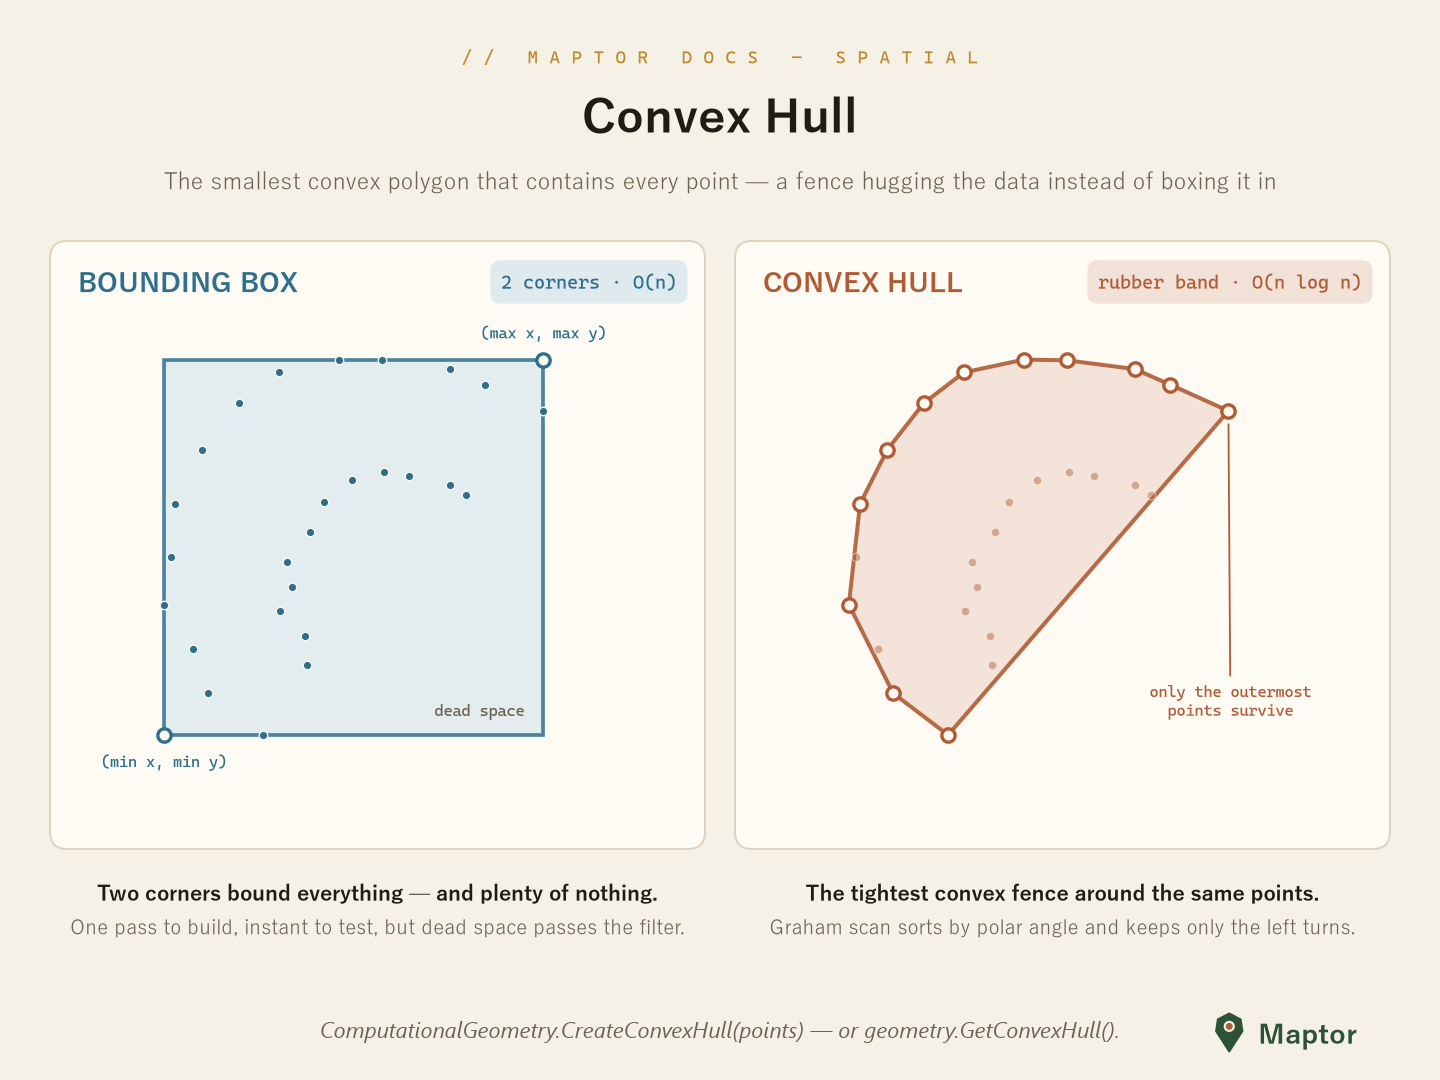
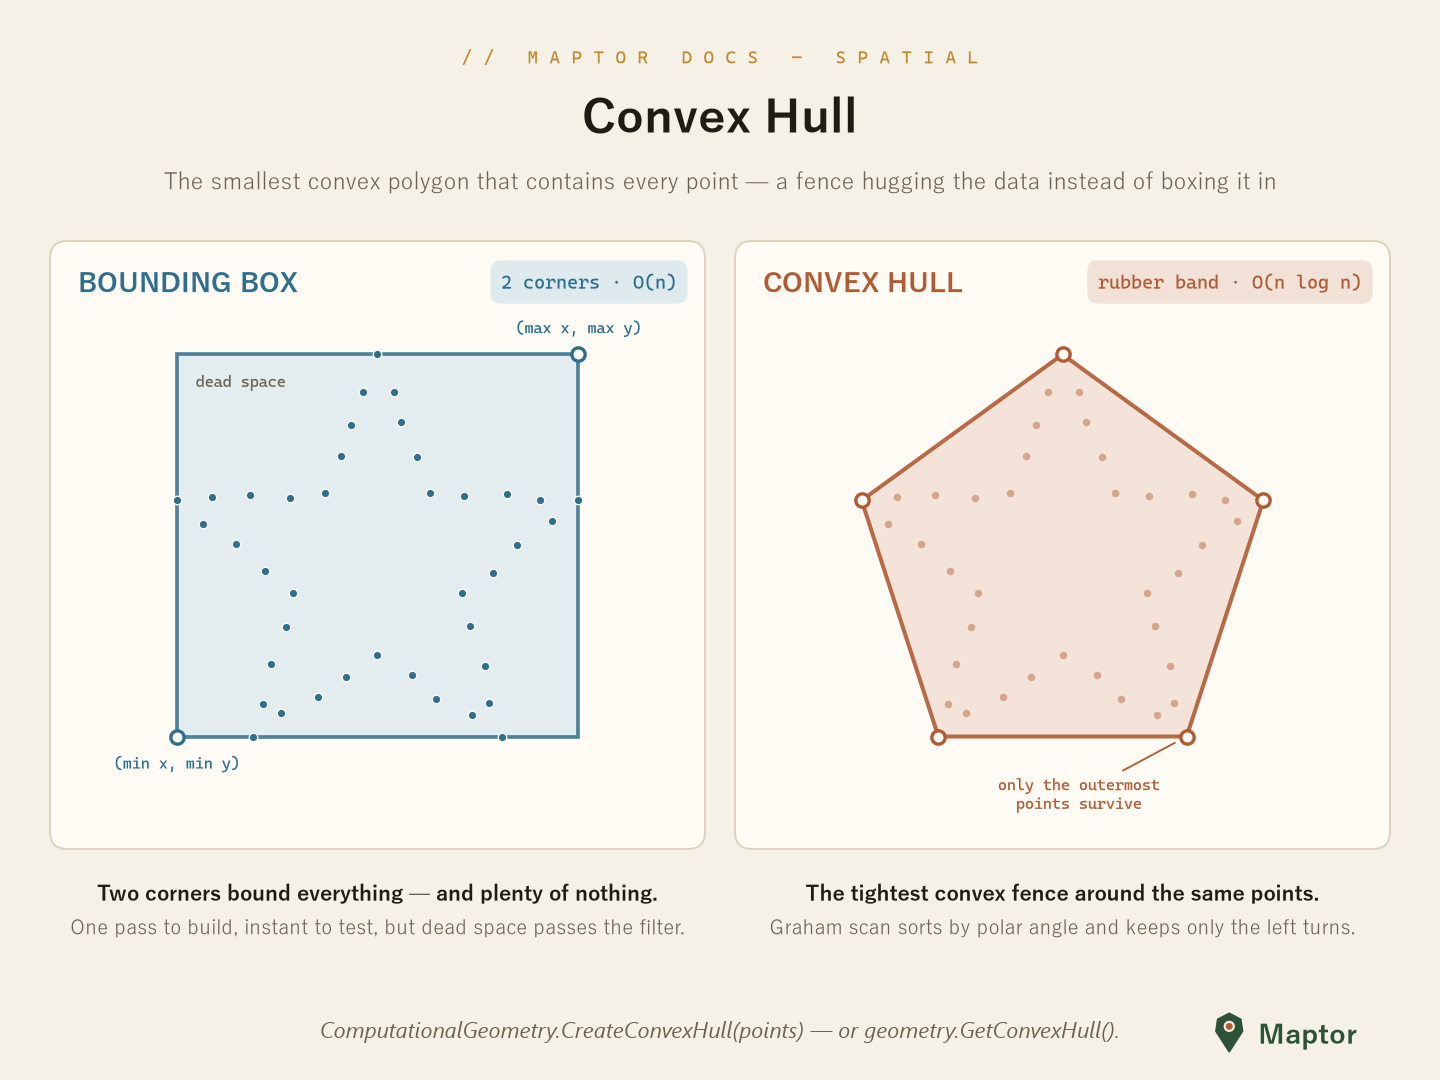
docs: convex hull docs

Changed region(s): [[0.5625, 0.3056, 0.9062, 0.7639], [0.0625, 0.3056, 0.4375, 0.7333]]

diff --git a/docs/readme-style-guide.md b/docs/readme-style-guide.md
@@ -1,0 +1,284 @@
+# README style guide
+
+This guide defines the single standard for every README in this repository. When creating or
+editing a README, find its type in the [file-to-type assignment](#appendix-file-to-type-assignment),
+follow that type's template, and respect the global rules below.
+
+## Scope
+
+Applies to all README files in the repository, with one exclusion:
+
+- `**/ThirdPartyLibraries/**` — vendored third-party documentation; never modify.
+
+## Global rules
+
+1. **Filename** is exactly `README.md` (case-sensitive). Supplementary docs (e.g.
+   `USAGE_EXAMPLES.md`) keep their own names and are not covered by this guide.
+2. **One H1 on line 1**, naming the thing verbatim: the package id (`# IRI.Maptor.Sta.Spatial`),
+   the topic (`# Shortest paths`), or the format (`# SVG`). Badges, if any, come immediately after
+   the H1.
+3. **Sentence case for all H2+ headings**: `## Getting started`, not `## Getting Started`.
+   The H1 keeps the proper name's own casing.
+4. **Emoji** are allowed only in the root `README.md` (title and marketing sections). All other
+   READMEs use plain text headings and bullets. Back-links use plain text, not `⬅`.
+5. **Links**: use relative links within the repo, **except** in READMEs that are packed into a
+   NuGet package (`<PackageReadmeFile>` in the csproj) — those must use absolute URLs
+   (`https://github.com/hosseinnarimanirad/Maptor/blob/master/...`) because relative links break
+   on nuget.org. NuGet-packed READMEs must also avoid HTML that nuget.org strips
+   (`<div align>`, `<img>` wrappers) — plain Markdown only.
+6. **No unverifiable claims.** Every feature bullet and capability statement must match the code.
+   File counts, performance numbers, and superlatives without a source are removed on sight.
+   Known precedent: CesiumTerrain is *reader-only* — writing is not implemented.
+7. **Language** is English. Bilingual English/Persian is allowed in application-specific
+   documentation sets.
+8. **Length** targets per type are in the taxonomy table. Shorter is fine; padding is not.
+9. **Code samples** must compile against the current API. Known gotcha:
+   `Geometry<T>.CreatePointOrLineString(List<T> points, int srid)` is the only valid overload; the
+   KML/KMZ namespace is `IRI.Maptor.Sta.KmlFormat` (not `...Sta.Ogc.KML`).
+10. **No ASCII folder trees** ("Project structure" sections). Folder layout is visible in the repo
+    itself; trees rot silently. The exception is docs whose *subject* is a layout (e.g. a package
+    format's directory structure).
+11. **Public paths only.** READMEs must reference only paths that exist in the public repository
+    (github.com/hosseinnarimanirad/Maptor).
+
+## Badge policy
+
+| README type | Allowed badges | Link target |
+|---|---|---|
+| A. Root landing | max 5: NuGet (flagship pkg), license, .NET, build/CI | each badge links to what it shows — license badge → LICENSE.txt, .NET Standard badge → the .NET Standard docs (never a different version's download page) |
+| C. Package | exactly 2: NuGet version + target framework | NuGet badge → `https://www.nuget.org/packages/<id>/`; `netstandard2.1` → `https://learn.microsoft.com/dotnet/standard/net-standard`; `net8.0` → `https://dotnet.microsoft.com/download/dotnet/8.0` |
+| B, D, E, F | none | — |
+
+Badge images use shields.io. A badge whose subject or link is wrong is worse than no badge.
+
+## Type taxonomy
+
+| Type | Applies to | Required sections, in order | Length |
+|---|---|---|---|
+| **A. Root landing** | `/README.md` | H1 + tagline → badges → What is Maptor → Repository layout → Installation → Quick start → Documentation → License | ≤ 250 |
+| **B. Tier index** | `src/IRI.Maptor.{Sta,Ket,Jab}/README.md` | H1 → one-line scope → project table → back-link footer | ≤ 60 |
+| **C. Package** | each NuGet-published project root | H1 (package id) → badges → overview paragraph → Installation → Features → Usage → footer | 60–150 |
+| **D. Deep-dive** | sub-folder topic/algorithm and format docs | topic: H1 → prose (free-form) → optional References → back-link. format: H1 → overview → Supported capabilities → Usage → Limitations → back-link | ≤ 400 |
+| **E. App/ops guide** | application deployment/configuration guides | H1 → purpose paragraph → Prerequisites → numbered steps/config → footer | free |
+| **F. Internal/tooling** | `research/`, `samples/` | H1 → purpose paragraph → How to run (if runnable) → back-link | ≤ 40 |
+
+## Templates
+
+### Type A — root landing
+
+The root README is rebuilt rarely; keep its existing section order (above) and apply the global
+rules. Emoji allowed. All URLs absolute or repo-relative and verified.
+
+### Type B — tier index
+
+```markdown
+# IRI.Maptor.<Tier>
+
+<One sentence: what this tier is and what runtime it targets.>
+
+| Project | NuGet | Target | Description |
+|---|---|---|---|
+| [IRI.Maptor.<Tier>.<Name>](IRI.Maptor.<Tier>.<Name>/README.md) | [![NuGet](https://img.shields.io/nuget/v/IRI.Maptor.<Tier>.<Name>?logo=nuget)](https://www.nuget.org/packages/IRI.Maptor.<Tier>.<Name>/) | netstandard2.1 | <one line> |
+
+---
+[Back to the solution README](../../README.md)
+```
+
+### Type C — package (NuGet-packed: absolute URLs only)
+
+````markdown
+# IRI.Maptor.<Tier>.<Name>
+
+[![NuGet](https://img.shields.io/nuget/v/IRI.Maptor.<Tier>.<Name>?logo=nuget)](https://www.nuget.org/packages/IRI.Maptor.<Tier>.<Name>/)
+[![Target](https://img.shields.io/badge/netstandard2.1-512BD4)](https://learn.microsoft.com/dotnet/standard/net-standard)
+
+<One paragraph: what the package does and where it sits in the Maptor stack.>
+
+## Installation
+
+```bash
+dotnet add package IRI.Maptor.<Tier>.<Name>
+```
+
+## Features
+
+- <capability, verified against code>
+
+## Usage
+
+```csharp
+<short sample that compiles against the current API>
+```
+
+## See also
+
+- [<Sub-topic>](https://github.com/hosseinnarimanirad/Maptor/blob/master/src/IRI.Maptor.<Tier>/IRI.Maptor.<Tier>.<Name>/<Folder>/README.md)
+
+---
+[NuGet package](https://www.nuget.org/packages/IRI.Maptor.<Tier>.<Name>/) ·
+[Report issues](https://github.com/hosseinnarimanirad/Maptor/issues) ·
+[Back to IRI.Maptor.<Tier>](https://github.com/hosseinnarimanirad/Maptor/blob/master/src/IRI.Maptor.<Tier>/README.md)
+````
+
+Optional sections (between Usage and See also): `## Dependencies`, `## Limitations`.
+
+### Type D — deep-dive
+
+Topic/algorithm variant (prose is the asset — structure stays free-form):
+
+```markdown
+# <Topic name>
+
+<Explanatory prose, diagrams, code. Sentence-case headings, no emoji, no badges,
+no installation section — link the owning package instead.>
+
+## References
+
+- <optional>
+
+---
+[Back to IRI.Maptor.<Tier>.<Name>](../README.md)
+```
+
+Format reference variant adds a required capability matrix, verified against code:
+
+```markdown
+# <Format name>
+
+<Overview: what the format is, why Maptor supports it.>
+
+## Supported capabilities
+
+| Capability | Supported |
+|---|---|
+| Read | Yes |
+| Write | No |
+
+## Usage
+
+<samples>
+
+## Limitations
+
+- <honest list>
+
+---
+[Back to IRI.Maptor.Sta.Spatial](../../README.md)
+```
+
+### Type E — app/ops guide
+
+```markdown
+# <What this guide covers>
+
+<Purpose paragraph: what you end up with when done.>
+
+## Prerequisites
+
+- <item>
+
+## <Step group 1>
+
+1. <numbered steps>
+
+## Troubleshooting
+
+<optional>
+```
+
+### Type F — internal/tooling
+
+```markdown
+# <Tool/folder name>
+
+<One paragraph: what this is for.>
+
+## How to run
+
+<commands, if runnable>
+
+---
+[Back to the solution README](../README.md)
+```
+
+## Appendix: file-to-type assignment
+
+Excluded (never touch): `src/IRI.Maptor.Ket/IRI.Maptor.Ket.WindowsBase/ThirdPartyLibraries/ManagedNativeWifi/README.md`.
+
+| File | Type |
+|---|---|
+| `README.md` | A |
+| `src/IRI.Maptor.Sta/README.md` | B |
+| `src/IRI.Maptor.Ket/README.md` | B |
+| `src/IRI.Maptor.Jab/README.md` | B |
+| `src/IRI.Maptor.Sta/IRI.Maptor.Sta.Common/README.md` | C |
+| `src/IRI.Maptor.Sta/IRI.Maptor.Sta.Graph/README.md` | C |
+| `src/IRI.Maptor.Sta/IRI.Maptor.Sta.GsmGprs/README.md` | C |
+| `src/IRI.Maptor.Sta/IRI.Maptor.Sta.MachineLearning/README.md` | C |
+| `src/IRI.Maptor.Sta/IRI.Maptor.Sta.Ogc/README.md` | C |
+| `src/IRI.Maptor.Sta/IRI.Maptor.Sta.Pdf/README.md` | C |
+| `src/IRI.Maptor.Sta/IRI.Maptor.Sta.Persistence/README.md` | C |
+| `src/IRI.Maptor.Sta/IRI.Maptor.Sta.Security/README.md` | C |
+| `src/IRI.Maptor.Sta/IRI.Maptor.Sta.ShapefileFormat/README.md` | C |
+| `src/IRI.Maptor.Sta/IRI.Maptor.Sta.Spatial/README.md` | C |
+| `src/IRI.Maptor.Sta/IRI.Maptor.Sta.SpatialReferenceSystem/README.md` | C |
+| `src/IRI.Maptor.Ket/IRI.Maptor.Ket.EfCorePersistence/README.md` | C |
+| `src/IRI.Maptor.Ket/IRI.Maptor.Ket.GdiPlus/README.md` | C |
+| `src/IRI.Maptor.Ket/IRI.Maptor.Ket.PersonalGdbPersistence/README.md` | C |
+| `src/IRI.Maptor.Ket/IRI.Maptor.Ket.PostgreSqlPersistence/README.md` | C |
+| `src/IRI.Maptor.Ket/IRI.Maptor.Ket.SqlServerPersistence/README.md` | C |
+| `src/IRI.Maptor.Ket/IRI.Maptor.Ket.SqlServerSpatialExtension/README.md` | C |
+| `src/IRI.Maptor.Ket/IRI.Maptor.Ket.SqlitePersistence/README.md` | C (keeps its extended format sections) |
+| `src/IRI.Maptor.Ket/IRI.Maptor.Ket.WebApiPersistence/README.md` | C |
+| `src/IRI.Maptor.Ket/IRI.Maptor.Ket.WindowsBase/README.md` | C |
+| `src/IRI.Maptor.Jab/IRI.Maptor.Jab.Common/README.md` | C |
+| `src/IRI.Maptor.Sta/IRI.Maptor.Sta.Common/Mathematics/Algebra/README.md` | D (topic) |
+| `src/IRI.Maptor.Sta/IRI.Maptor.Sta.Graph/Clustering/README.md` | D (topic) |
+| `src/IRI.Maptor.Sta/IRI.Maptor.Sta.Graph/GraphRepresentation/README.md` | D (topic) |
+| `src/IRI.Maptor.Sta/IRI.Maptor.Sta.Graph/MinCut/README.md` | D (topic) |
+| `src/IRI.Maptor.Sta/IRI.Maptor.Sta.Graph/MinimumSpanningTree/README.md` | D (topic) |
+| `src/IRI.Maptor.Sta/IRI.Maptor.Sta.Graph/Search/README.md` | D (topic) |
+| `src/IRI.Maptor.Sta/IRI.Maptor.Sta.Graph/ShortestPaths/README.md` | D (topic) |
+| `src/IRI.Maptor.Sta/IRI.Maptor.Sta.Ogc/GML/README.md` | D (topic) |
+| `src/IRI.Maptor.Sta/IRI.Maptor.Sta.Ogc/KML/README.md` | D (topic) |
+| `src/IRI.Maptor.Sta/IRI.Maptor.Sta.Ogc/KMZ/README.md` | D (topic) |
+| `src/IRI.Maptor.Sta/IRI.Maptor.Sta.Ogc/SLD/README.md` | D (topic) |
+| `src/IRI.Maptor.Sta/IRI.Maptor.Sta.Ogc/WFS/README.md` | D (topic) |
+| `src/IRI.Maptor.Sta/IRI.Maptor.Sta.Ogc/WMS/README.md` | D (topic) |
+| `src/IRI.Maptor.Sta/IRI.Maptor.Sta.Spatial/AdvancedStructures/README.md` | D (topic) |
+| `src/IRI.Maptor.Sta/IRI.Maptor.Sta.Spatial/Analysis/README.md` | D (topic) |
+| `src/IRI.Maptor.Sta/IRI.Maptor.Sta.Spatial/Analysis/DigitalTerrainModeling/README.md` | D (topic) |
+| `src/IRI.Maptor.Sta/IRI.Maptor.Sta.Spatial/Analysis/Interpolation/README.md` | D (topic) |
+| `src/IRI.Maptor.Sta/IRI.Maptor.Sta.Spatial/Analysis/SFC/README.md` | D (topic) |
+| `src/IRI.Maptor.Sta/IRI.Maptor.Sta.SpatialReferenceSystem/CoordinateSystems/README.md` | D (topic) |
+| `src/IRI.Maptor.Sta/IRI.Maptor.Sta.SpatialReferenceSystem/MapProjections/README.md` | D (topic) |
+| `src/IRI.Maptor.Sta/IRI.Maptor.Sta.SpatialReferenceSystem/Models/README.md` | D (topic) |
+| `src/IRI.Maptor.Jab/IRI.Maptor.Jab.Common/Views/Symbology/Sld/README.md` | D (topic) |
+| `samples/IRI.Maptor.Tag.SampleCodes/Geodesy/README.md` | D (topic) |
+| `src/IRI.Maptor.Sta/IRI.Maptor.Sta.Spatial/IO/CesiumTerrain/README.md` | D (format) |
+| `src/IRI.Maptor.Sta/IRI.Maptor.Sta.Spatial/IO/Dxf/README.md` | D (format) |
+| `src/IRI.Maptor.Sta/IRI.Maptor.Sta.Spatial/IO/Eps/README.md` | D (format) |
+| `src/IRI.Maptor.Sta/IRI.Maptor.Sta.Spatial/IO/EsriJson/README.md` | D (format) |
+| `src/IRI.Maptor.Sta/IRI.Maptor.Sta.Spatial/IO/GeoJsonFormat/README.md` | D (format) |
+| `src/IRI.Maptor.Sta/IRI.Maptor.Sta.Spatial/IO/OgcSFA/README.md` | D (format) |
+| `src/IRI.Maptor.Sta/IRI.Maptor.Sta.Spatial/IO/PmTiles/README.md` | D (format) |
+| `src/IRI.Maptor.Sta/IRI.Maptor.Sta.Spatial/IO/SqlServerNativeBinary/README.md` | D (format) |
+| `src/IRI.Maptor.Sta/IRI.Maptor.Sta.Spatial/IO/Svg/README.md` | D (format) |
+| `src/IRI.Maptor.Sta/IRI.Maptor.Sta.Spatial/IO/TopoJson/README.md` | D (format) |
+| `src/IRI.Maptor.Sta/IRI.Maptor.Sta.Spatial/IO/VectorTiles/README.md` | D (format) |
+| `research/IRI.Maptor.Res.FastSimplification/README.md` | F |
+| `samples/IRI.Maptor.Tag.SampleWpfApp/README.md` | F |
+
+## Checklist for new or edited READMEs
+
+- [ ] Filename is exactly `README.md`
+- [ ] Single H1 on line 1, naming the package/topic/format verbatim
+- [ ] H2+ headings are sentence case
+- [ ] No emoji (root README excepted)
+- [ ] Sections match the file's type template, in order
+- [ ] Badges only where the type allows, with correct link targets
+- [ ] NuGet-packed README → all links absolute, no HTML
+- [ ] Every capability claim verified against code; no unverifiable statistics
+- [ ] Code samples compile against the current API
+- [ ] No ASCII folder tree
+- [ ] Footer back-link present and resolving

diff --git a/src/IRI.Maptor.Sta/IRI.Maptor.Sta.Spatial/Analysis/README.md b/src/IRI.Maptor.Sta/IRI.Maptor.Sta.Spatial/Analysis/README.md
@@ -34,18 +34,18 @@ The convex hull is the smallest convex polygon that contains every point of a se
 </p>
 
 ```csharp
-// a crescent of points: an outer arc plus a few strays inside it
+// a five-pointed star: five outer tips plus five inner notch points
 var points = new List<Point>
 {
-    new Point(0, -10), new Point(-7, -7), new Point(-10, 0),   // outer arc …
-    new Point(-7, 7),  new Point(0, 10),  new Point(7, 7),
-    new Point(-5, 0),  new Point(-3.5, 3.5),                   // … inner strays
-    new Point(0, 5),   new Point(3, 3),
+    new Point(0, 10),     new Point(-9.5, 3.1),  new Point(-5.9, -8.1),  // outer tips …
+    new Point(5.9, -8.1), new Point(9.5, 3.1),
+    new Point(-2.4, 3.2), new Point(-3.8, -1.2), new Point(0, -4),       // … inner notches
+    new Point(3.8, -1.2), new Point(2.4, 3.2),
 };
 
 List<Point> hull = ComputationalGeometry.CreateConvexHull(points);
-// → the six outer-arc points, counter-clockwise; the rubber band bridges
-//   straight across between (7, 7) and (0, -10), and the inner strays vanish
+// → the five tips, counter-clockwise — a pentagon; the rubber band bridges
+//   every notch straight across, and the inner star vertices vanish
 
 var hullPolygon = geometry.GetConvexHull();   // same thing on any Geometry<T>
 ```
